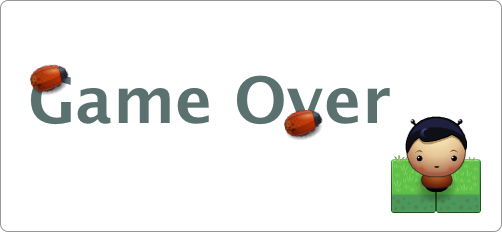
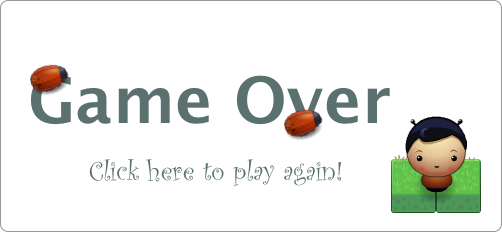
Add remove listener to correct constant initialization problem.

Changed region(s): [[0.1793, 0.694, 0.6873, 0.8147]]

diff --git a/projects/arcade_game/js/app.js b/projects/arcade_game/js/app.js
@@ -85,7 +85,7 @@ Player.prototype.render = function() {
 
     if (player.numLifes === 0) {
         this.x = 700;
-        ctx.drawImage(Resources.get('images/game_over.png'), 2, 200);
+        playAgain();
             }
 
     this.gemsCaught.forEach(function(gem, index){
@@ -188,9 +188,8 @@ setInterval(function () {
 
 
 
-var newGame = function(player_inst, enemiesArray) {
+var Game = function(player_inst, enemiesArray) {
 
-    //Pushes an enemy in a given window of time.
 
     // This listens for key presses and sends the keys to your
     // Player.handleInput() method. You don't need to modify this.
@@ -204,9 +203,28 @@ var newGame = function(player_inst, enemiesArray) {
 
         player_inst.handleInput(allowedKeys[e.keyCode]);
     });
-
-
 }
+
+var playAgain = function(drawingWinLose){
+    ctx.drawImage(Resources.get('images/game_over.png'), 2, 200);
+
+    var elem = document.getElementById('first-canvas'),
+        elemLeft = elem.offsetLeft,
+        elemTop = elem.offsetTop;
+
+
+    var clickPlayAgain = function(event) {
+
+        var x = event.pageX - elemLeft ,
+            y = event.pageY - elemTop ;
+        if ((x > 0 && x < 500) &&
+            (y > 200 && y < 450)) {
+            console.log("yes")
+    }
+    }
+    elem.addEventListener('click', clickPlayAgain);
+}
+
 
 var instructions = function() {
     ctx.drawImage(Resources.get('images/startbox.png'), 10, 50);
@@ -252,19 +270,21 @@ var charChooser = function() {
         elemLeft = elem.offsetLeft,
         elemTop = elem.offsetTop;
 
-    elem.addEventListener('click', function(event){
+    var clicker = function(event) {
         var x = event.pageX - elemLeft - 15,
             y = event.pageY - elemTop - 60;
-
-
-    characters.players.forEach(function(character) {
-        if (charChooseChecker(x, y, character)) {
-            player = new Player(character.image)
-            newGame(player, allEnemies);
-            gameOver = false;
-        }
+        characters.players.forEach(function(character) {
+            if (charChooseChecker(x, y, character)) {
+                player = new Player(character.image)
+                Game(player, allEnemies);
+                gameOver = false;
+                elem.removeEventListener('click', clicker);
+                }
     });
-    });
+    };
+
+    elem.addEventListener('click', clicker);
+
 
     elem.addEventListener('mousemove', function(event){
         var x = event.pageX - elemLeft - 15,
